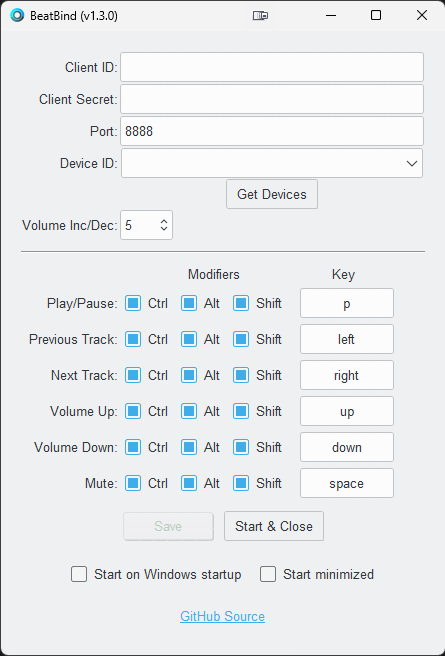
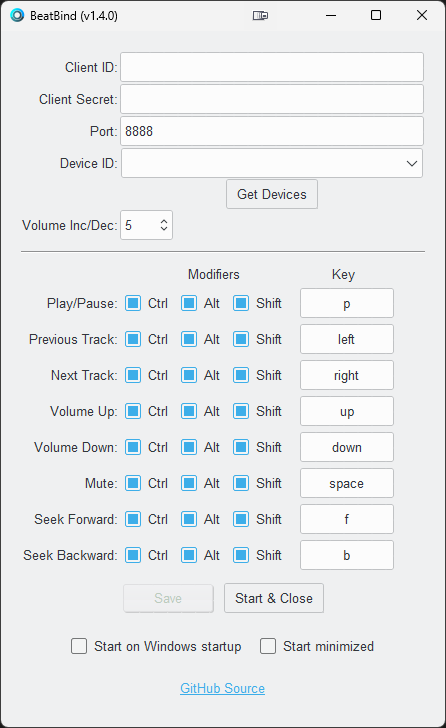
Update Readme

diff --git a/README.md b/README.md
@@ -1,9 +1,9 @@
 # <img src="./BeatBind/icon.ico" width="4%" height="5%"> BeatBind - Spotify Global Hotkeys
+
 ![build](https://img.shields.io/badge/build-passing-brightgreen)
-[![version](https://img.shields.io/badge/version-1.3.0-blue)](https://github.com/justinknguyen/BeatBind/releases/tag/v1.3.0)
+[![version](https://img.shields.io/badge/version-1.4.0-blue)](https://github.com/justinknguyen/BeatBind/releases/tag/v1.4.0)
 ![python](https://img.shields.io/badge/python-3.10.9-yellow)
 [![contributions welcome](https://img.shields.io/badge/contributions-welcome-brightgreen.svg?style=flat)](https://github.com/justinknguyen/BeatBind/issues)
-
 
 Are you tired of constantly switching back and forth between your game and Spotify just to adjust the volume? With this app, you can finally control Spotify and adjust it's volume separately, all without the hassle of alt+tabbing. Say goodbye to interruptions and hello to effortless audio management!
 
@@ -19,6 +19,7 @@ This background Python Windows application utilizes the [global_hotkeys](https:/
 Please see [FAQ](#faq) for more information or if you encounter any issues. If your issue isn't listed, please create an Issue ticket.
 
 ## Table of Contents
+
 - [Download](#download)
 - [Requirements](#requirements)
 - [Instructions](#instructions)
@@ -26,60 +27,68 @@ Please see [FAQ](#faq) for more information or if you encounter any issues. If y
 - [FAQ](#faq)
 
 ## Download
-Download the latest version from the [Releases](https://github.com/justinknguyen/BeatBind/releases) page. 
+
+Download the latest version from the [Releases](https://github.com/justinknguyen/BeatBind/releases) page.
 
 The `.exe` file is within the root of the BeatBind folder with the other files and folders. Search or sort by file type to find the `.exe` file.
 
 You can build the `.exe` yourself with the provided build command in the [build.py](https://github.com/justinknguyen/BeatBind/blob/main/BeatBind/build.py) file.
 
 ## Requirements
+
 - Windows 10/11
 - Spotify on your device of choice
 - Spotify Premium
-    - Unfortunately, the endpoints used in Spotify's Web API only works for premium users, so it's not possible for this app to work for free users. There are other apps online that work locally instead, allowing it to work for free and premium users.
-  
+  - Unfortunately, the endpoints used in Spotify's Web API only works for premium users, so it's not possible for this app to work for free users. There are other apps online that work locally instead, allowing it to work for free and premium users.
+
 ## Instructions
-After downloading the `.zip` folder, extract the contents somewhere on your computer. 
 
-*If you extracted it to your Program Files folder, you'll need to run the app in admin mode to be able to write and save your settings and token.
+After downloading the `.zip` folder, extract the contents somewhere on your computer.
 
-The app requires the user to input four fields: 
+\*If you extracted it to your Program Files folder, you'll need to run the app in admin mode to be able to write and save your settings and token.
+
+The app requires the user to input three fields:
+
 - [Client ID](#client-id-and-client-secret)
 - [Client Secret](#client-id-and-client-secret)
 - [Device ID](#device-id)
-  
+
 ### Client ID and Client Secret
+
 1. To obtain the `Client ID` and `Client Secret`, head to the following link [Spotify for Developers](https://developer.spotify.com/).
 1. Sign-in and click on your profile in the top-right corner, then click on "Dashboard".
 1. Click on the "Create app" button to the right.
 1. Enter any "App name" and "App description" you want.
-1. In the app, you can change the `Port` field if it's already being used on your local network
+1. In the app, you can change the `Port` field if it's already being used on your local network.
 1. Back on the website, enter the following into "Redirect URI" with the port you chose (e.g., 8888):
-    ```
-    http://localhost:8888/callback
-    ```
+   ```
+   http://localhost:8888/callback
+   ```
 1. Click on the checkbox and then "Save".
-    <p>
-    <img src="./images/create-app.png" width="70%" height="70%">
-    </p>
+<p>
+<img src="./images/create-app.png" width="70%" height="70%">
+</p>
 1. Click on the "Settings" button to the top-right.
 1. Copy your `Client ID` and `Client Secret` (press "View client secret") and paste it into the BeatBind app.
-    <p>
-    <img src="./images/id-and-secret.png" width="70%" height="70%">
-    </p>
-    
+<p>
+<img src="./images/id-and-secret.png" width="70%" height="70%">
+</p>
+
 ### Device ID
+
 1. To obtain your `Device ID`, press the button "Get Devices" in the app once your `Client ID` and `Client Secret` are filled in.
 1. Click on the drop-down arrow and select your device of choice.
-    - Note: if you don't see your device listed, open the Spotify app on that device and play something, then check again.
+   - Note: if you don't see your device listed, open the Spotify app on that device and play something, then check again.
 
 Once you're done, click on `Save` within the app to save your settings. Click on `Start & Close` to close the window and start listening for your hotkeys!
 
 You can open the settings again by right-clicking on the app's system tray icon.
 
 ## Troubleshooting
+
 Please go through the below steps before creating an Issue ticket.
-1. If your settings are not saving, try to move your BeatBind folder to a different directory. If you placed it in your Program Files folder, then it needs to run in admin mode to be able to save and write files.
+
+1. If your settings are not saving, please see [Why Are My Settings Not Saving?](#why-are-my-settings-not-saving)
 1. If your app is not starting/opening, please see [Why Is The App Crashing?](#why-is-the-app-crashing)
 1. If your app is not starting on Windows startup, please see [Why Isn't The App Starting on Windows Startup?](#why-isnt-the-app-starting-on-windows-startup) and [Not launching on startup. #5](https://github.com/justinknguyen/BeatBind/issues/5)
 1. Make sure your Client ID and Secret is correct and matches what is displayed in the Spotify developer site.
@@ -88,42 +97,62 @@ Please go through the below steps before creating an Issue ticket.
 1. After confirming the above and it still doesn’t work, it is likely a port problem and you’re already using the selected port on your network. Choose a different port in the app, and also change the Redirect URI set in the Spotify developer site.
 
 ## FAQ
+
+- [Free Users?](#free-users)
 - [How Do I Disable Certain Hotkeys?](#how-do-i-disable-certain-hotkeys)
 - [Where Is My Information Saved?](#where-is-my-information-saved)
 - [What Information Is Saved?](#what-information-is-saved)
+- [Why Are My Settings Not Saving?](#why-are-my-settings-not-saving)
 - [How Do I Update The App?](#how-do-i-update-the-app)
 - [Why Isn't The App Starting on Windows Startup?](#why-isnt-the-app-starting-on-windows-startup)
 - [Why Is The App Crashing?](#why-is-the-app-crashing)
 - [My Hotkeys Stop Registering After Waking From Sleep](#my-hotkeys-stop-registering-after-waking-from-sleep)
 
+### Free Users?
+
+Unfortunately, the endpoints used in Spotify's Web API only works for Spotify premium users, so it's not possible for this app to work for free users. There are other apps online that work locally instead, allowing it to work for free and premium users.
+
 ### How Do I Disable Certain Hotkeys?
+
 1. Uncheck all of the `Modifiers` checkboxes.
 1. In the `Key` field, press "Backspace" or "Delete" on your keyboard to clear the field.
-    <p>
-    <img src="./images/unbind.png" width="40%" height="40%">
-    </p>
+<p>
+<img src="./images/unbind.png" width="40%" height="40%">
+</p>
 
 ### Where Is My Information Saved?
+
 Your information is stored locally within the `BeatBind` folder. It stores your configuration settings and the token information required to interact with Spotify's Web API.
-   
+
 ### What Information Is Saved?
+
 There are two files stored within the `BeatBind` folder:
-- `beatbind-config.json`, which contains your Client ID, Secret, Port, Device ID, and your hotkey combinations.
-- `.cache`, which contains your token information to communicate with the Spotify app.
+
+1. `beatbind-config.json`, which contains your Client ID, Secret, Port, Device ID, and your hotkey combinations.
+1. `.cache`, which contains your token information to communicate with the Spotify app.
+
+### Why Are My Settings Not Saving?
+
+You most likely extracted the BeatBind folder into a location where it requires Administrator privileges, such as the Program Files folder. Place the BeatBind folder into a different location, or try running the app in Admin mode.
 
 ### How Do I Update The App?
+
 1. Copy and save your `beatbind-config.json` and `.cache` files somewhere
 1. Replace your `BeatBind` folder with the updated version
 1. Paste inside the folder your saved `beatbind-config.json` and `.cache` files
 
 ### Why Isn't The App Starting on Windows Startup?
+
 This happens if the location of the `.exe` file was changed. The registry key used to start the app on Windows startup needs to be updated to the new `.exe` path. Starting the app again will update the path in the registry key and should resolve the issue.
 
 ### Why Is The App Crashing?
-- If you had "Start minimized" checked, you can find the app's icon hidden within your system tray and then right-click on it to find the settings menu.
-- Within your `BeatBind` folder, delete the following files and try to open it again:
-    - `beatbind-config.json`
-    - `.cache`
-  
+
+1. If you had "Start minimized" checked, you can find the app's icon hidden within your system tray and then right-click on it to find the settings menu.
+1. Within your `BeatBind` folder, delete the following files and try to open it again:
+
+- `beatbind-config.json`
+- `.cache`
+
 ### My Hotkeys Stop Registering After Waking From Sleep
+
 There are rare cases where hotkeys stop registering on system wake up from sleep, and pressing `Start & Close` button again fixes the listener. For a more permanent fix, try disabling Windows Fast Startup. If the bug keeps occurring after disabling Fast Startup, please create an Issue ticket.
